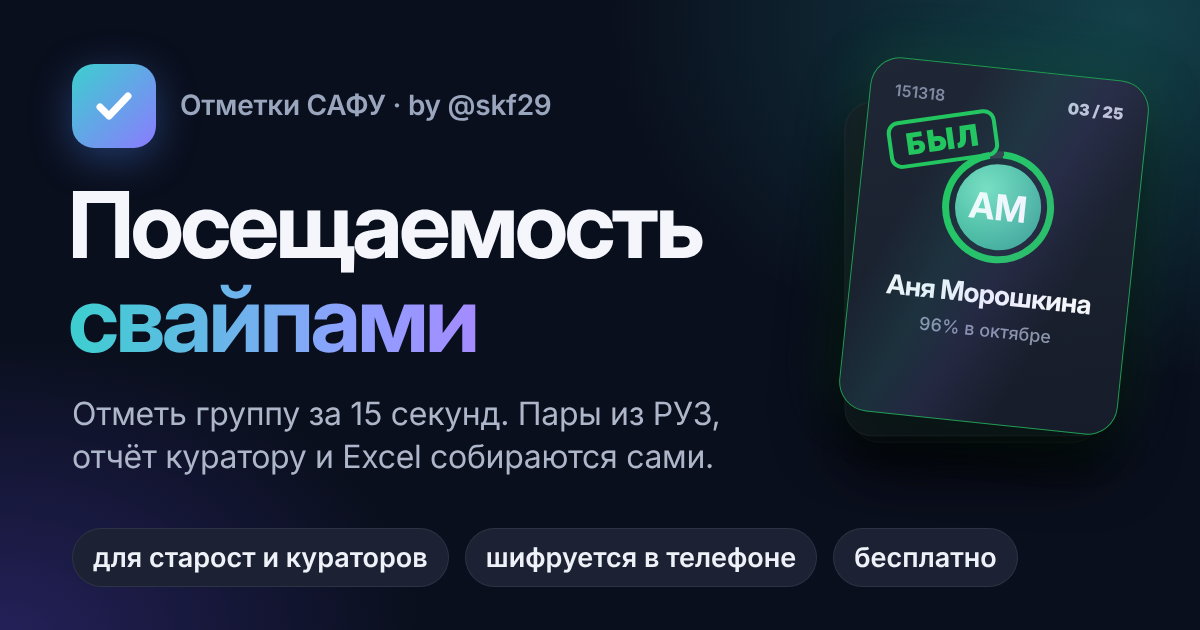
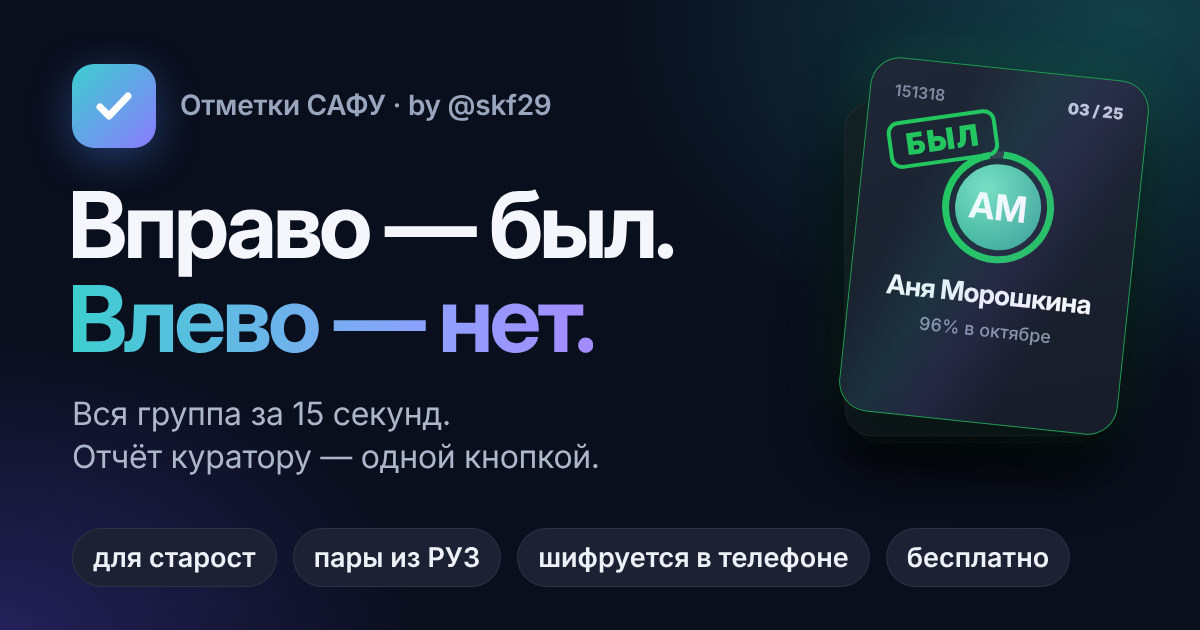
Отметки: короче и бодрее текст превью ссылки
Claude-Session: https://claude.ai/code/session_01XsPHPkdMoHZtveZnivJC7U

diff --git a/site/otmetki/index.html b/site/otmetki/index.html
@@ -8,10 +8,10 @@
 <meta name="description" content="Посещаемость для старост, замов и кураторов САФУ: отметки свайпами по расписанию из РУЗ, личная статистика для студентов, выгрузка в Excel. Данные шифруются в телефоне. by @skf29">
 <meta property="og:type" content="website">
 <meta property="og:site_name" content="Арктика">
-<meta property="og:title" content="Отметки САФУ: посещаемость свайпами">
-<meta property="og:description" content="Для старост, замов и кураторов: группа по коду, отметки свайпами, студент видит свои пропуски. Всё шифруется в телефоне. by @skf29">
+<meta property="og:title" content="Отметки САФУ: вся группа за 15 секунд">
+<meta property="og:description" content="Вправо — был, влево — нет. Пары из РУЗ, отчёт куратору одной кнопкой, студент видит свои пропуски. Бесплатно. by @skf29">
 <meta property="og:url" content="https://arktika-app.ru/otmetki/">
-<meta property="og:image" content="https://arktika-app.ru/otmetki/og.png?v=1">
+<meta property="og:image" content="https://arktika-app.ru/otmetki/og.png?v=2">
 <meta property="og:image:width" content="1200">
 <meta property="og:image:height" content="630">
 <meta name="twitter:card" content="summary_large_image">
